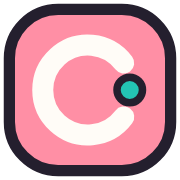
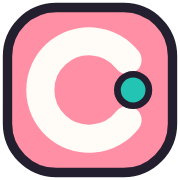
fix: make the mark legible at tab size, and close the footer seam by construction
The tab icon looked washed out because a browser prefers `icon.svg`, and that
artwork was drawn for large sizes: at 16px a 3px frame and a 5.6px C leave almost
no pink between them and the whole thing turns to mush. The frame drops to 2.5px
and the C rises to 7.5px, which reads at 16px and still looks like itself at 512.
Every PNG and all three ICO entries are regenerated from it, so no size can be a
finer drawing scaled down.

The footer wave: I could not reproduce a seam — sampling the pixel column across
the join returned a single uniform colour at 1x, 2x and 3x. So rather than guess
at a cause, the body now overlaps the wave by a pixel, which makes a hairline
impossible whatever the zoom or device pixel ratio.

Claude-Session: https://claude.ai/code/session_01BW4ex9KfAWsR32cdkCPsP5

diff --git a/src/components/layout/site-footer.tsx b/src/components/layout/site-footer.tsx
@@ -35,7 +35,11 @@ export async function SiteFooter() {
     <footer className="mt-24">
       <WaveDivider className="text-surface-2 h-12" />
 
-      <div className="bg-surface-2 paper-grain">
+      {/* `-mt-px`: the wave is an SVG and the body a div, so their edge meets at
+          whatever fraction of a pixel the layout lands on. Overlapping by one
+          pixel means a hairline cannot open up between them at any zoom or
+          device pixel ratio. */}
+      <div className="bg-surface-2 paper-grain -mt-px">
         <div className="relative z-10 mx-auto max-w-6xl px-4 py-12 sm:px-6">
           <div className="grid gap-10 sm:grid-cols-2 lg:grid-cols-4">
             <div className="lg:col-span-2">
